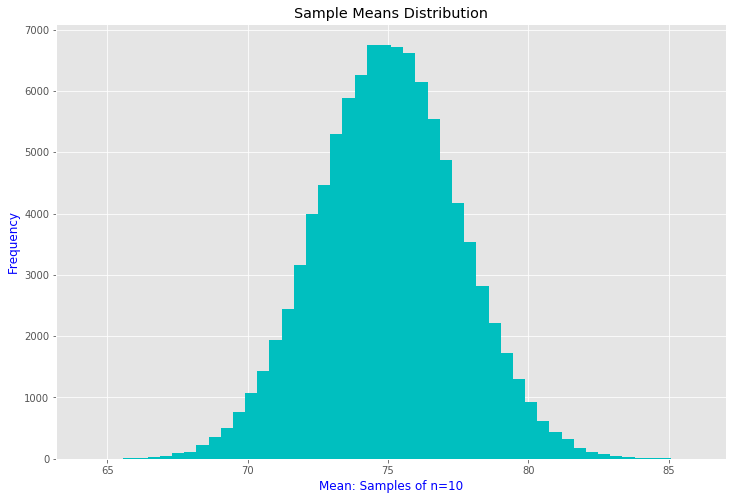
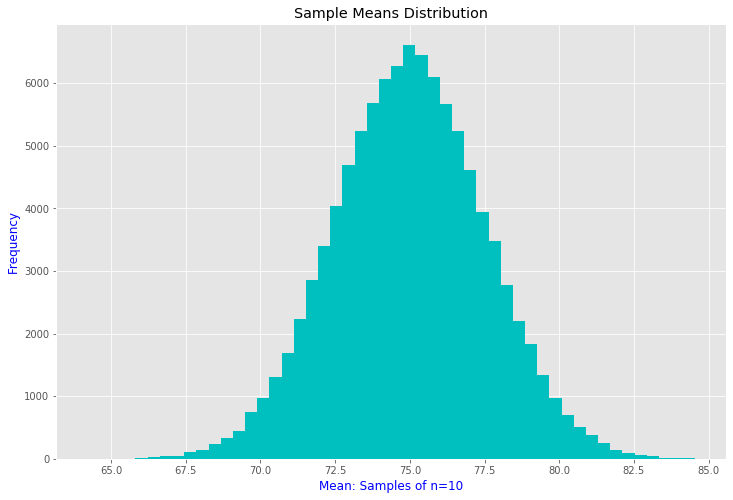
clt

diff --git a/README.md b/README.md
@@ -5,7 +5,7 @@
 The central limit theorem states that if you have a population with mean μ and standard deviation σ and take sufficiently large random samples from the population with replacementtext annotation indicator, then the distribution of the sample means will be approximately normally distributed. This will hold true regardless of whether the source population is normal or skewed, provided the sample size is sufficiently large (usually n > 30). If the population is normal, then the theorem holds true even for samples smaller than 30. In fact, this also holds true even if the population is binomial, provided that min(np, n(1-p))> 5, where n is the sample size and p is the probability of success in the population. This means that we can use the normal probability model to quantify uncertainty when making inferences about a population mean based on the sample mean.
 
 
-#### Central Limit Theorem with a Normal Population
+### Central Limit Theorem with a Normal Population
 
 The figure below illustrates a normally distributed characteristic, X, in a population in which the population mean is 75 with a standard deviation of 8.
 
@@ -16,7 +16,7 @@ If we take simple random samples (with replacement)text annotation indicator of 
 ![CLT_with_normal_population_sample_means](images/norm_population_sample_means.png)
 
 
-#### Central Limit Theorem with a Dichotomous Outcome
+### Central Limit Theorem with a Dichotomous Outcome
 
 Suppose we measure a characteristic, X, in a population and that this characteristic is dichotomous (e.g., success of a medical procedure: yes or no) with 30% of the population classified as a success (i.e., p=0.30).
 
@@ -27,5 +27,12 @@ The distribution of sample means based on samples of size n=20 is shown below.
 ![CLT_with_dichotomous_outcome_sample_means](images/dichotomous_outcome_sample_means.png)
 
 
-#### Central Limit Theorem with a Skewed Distribution
+### Central Limit Theorem with a Skewed Distribution
 
+The Poisson distribution is a probability model that is useful for modeling discrete variables such as the number of events occurring during a given time interval. For example, suppose you typically receive about 4 spam emails per day, but the number varies from day to day. Today you happened to receive 5 spam emails. What is the probability of that happening, given that the typical rate is 4 per day?
+
+![CLT_with_poisson_population](images/poisson_population.png)
+
+This population is not normally distributed, but the Central Limit Theorem will apply if n > 30. Also note that the sample standard deviation (also called the "**standard error**") is larger with smaller samples, because it is obtained by dividing the population standard deviation by the square root of the sample size. Another way of thinking about this is that extreme values will have less impact on the sample mean when the sample size is large.
+
+![CLT_with_poisson_population_sample_means](images/poisson_population_sample_means.png)
